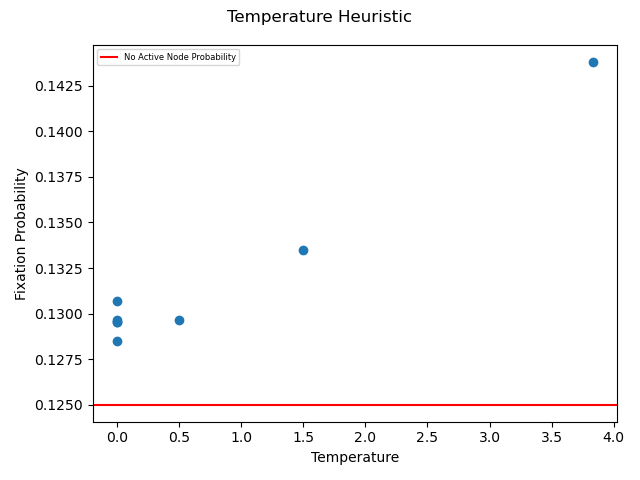
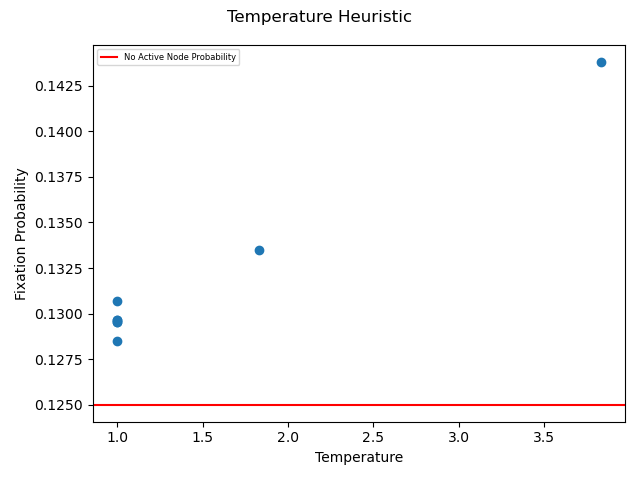
Made some changes to temperature

diff --git a/Experimentation.py b/Experimentation.py
@@ -66,6 +66,7 @@ def make_one_active(G):
     #Temperature Heuristic
     temp_list = np.zeros(len(G.nodes()))
     for node1, node2, data in G.edges(data=True):
+        temp_list[node1] += list(data.values())[0]
         temp_list[node2] += list(data.values())[0]
     plot_temperature(temp_list, numeric_data)
 
@@ -101,6 +102,7 @@ def make_one_passive(graph):
     #Temperature Heuristic
     temp_list = np.zeros(len(G.nodes()))
     for node1, node2, data in G.edges(data=True):
+        temp_list[node1] += list(data.values())[0]
         temp_list[node2] += list(data.values())[0]
     plot_temperature(temp_list, numeric_data)
 
@@ -230,9 +232,9 @@ if __name__ == "__main__":
     Graphs.draw_graph(mega_star)
 
     #6, 35, 29
-    all_graphs_of_size_n = get_all_graphs_of_size_n("8c")
-    G = all_graphs_of_size_n[35]
-    #G = mega_star
+    #all_graphs_of_size_n = get_all_graphs_of_size_n("8c")
+    #G = all_graphs_of_size_n[35]
+    G = mega_star
 
     Graphs.initialize_nodes_as_resident(G,multiplier)
     Graphs.draw_graph(G)

diff --git a/Active_Node_Chooser.py b/Active_Node_Chooser.py
@@ -307,12 +307,12 @@ class Temperature(Strategy):
 
             #Find the non active node that corresponded to this largest value
             node_to_make_active = non_active_nodes[max_index]
-            print(temperature)
+            #print(temperature)
 
             #Make the choosen node active
             graph.nodes[node_to_make_active]['active'] = True
             nodes.append(node_to_make_active)
-            print("In round ", i+1, " we choose node ", node_to_make_active, " to become active")
+            #print("In round ", i+1, " we choose node ", node_to_make_active, " to become active")
 
         return nodes
 
